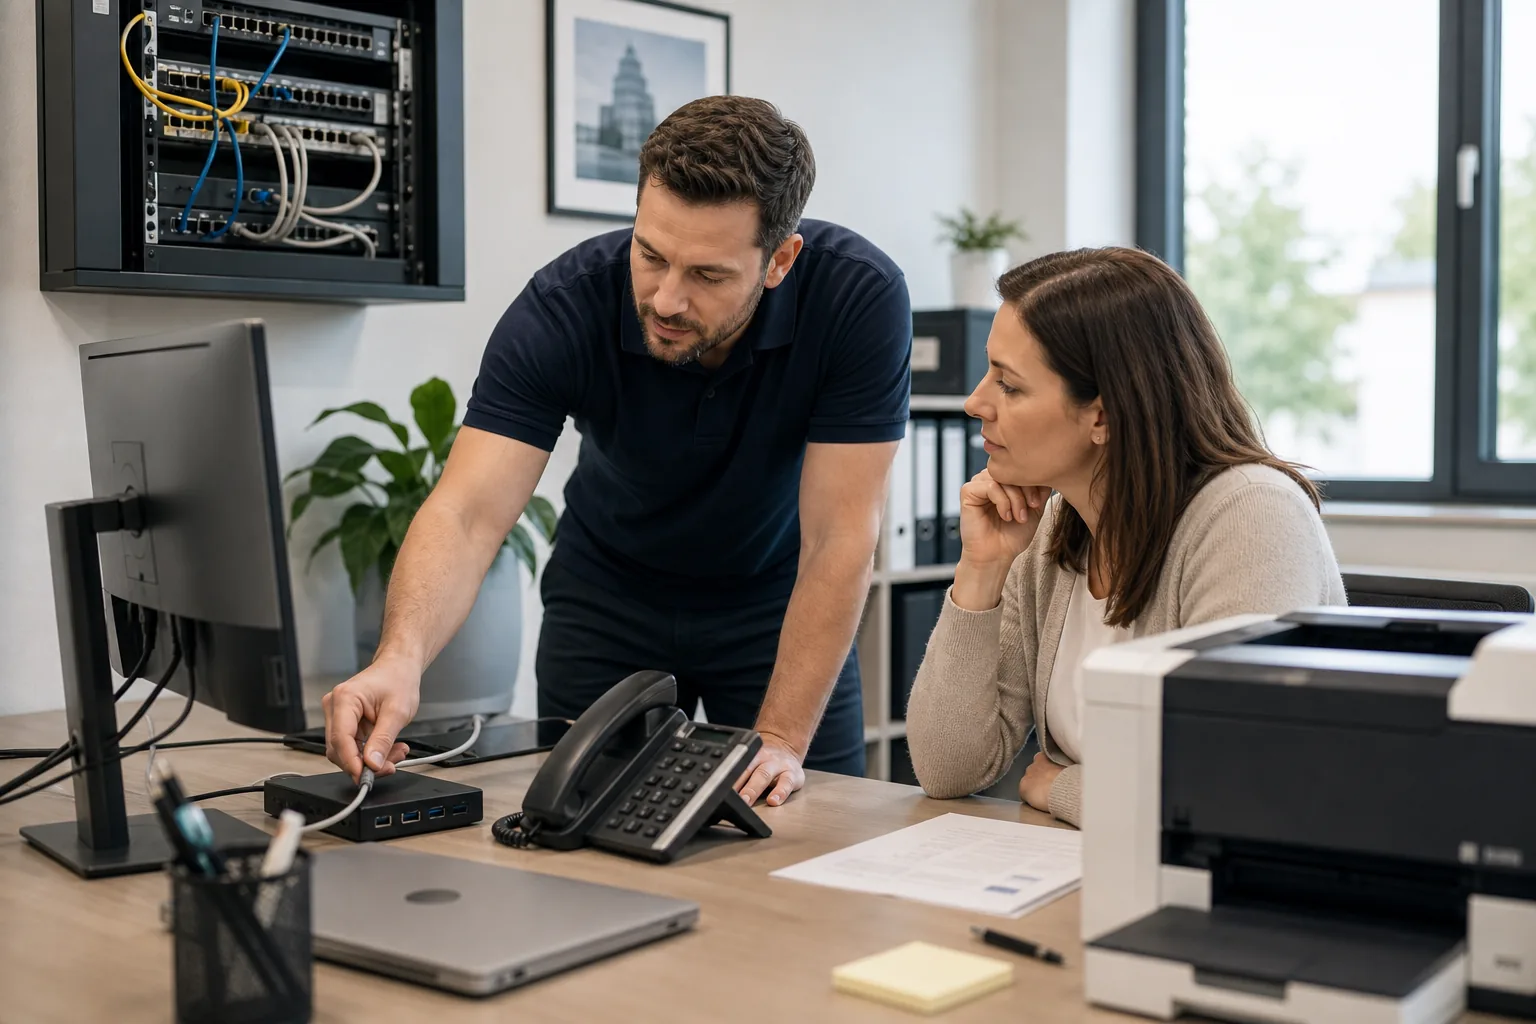
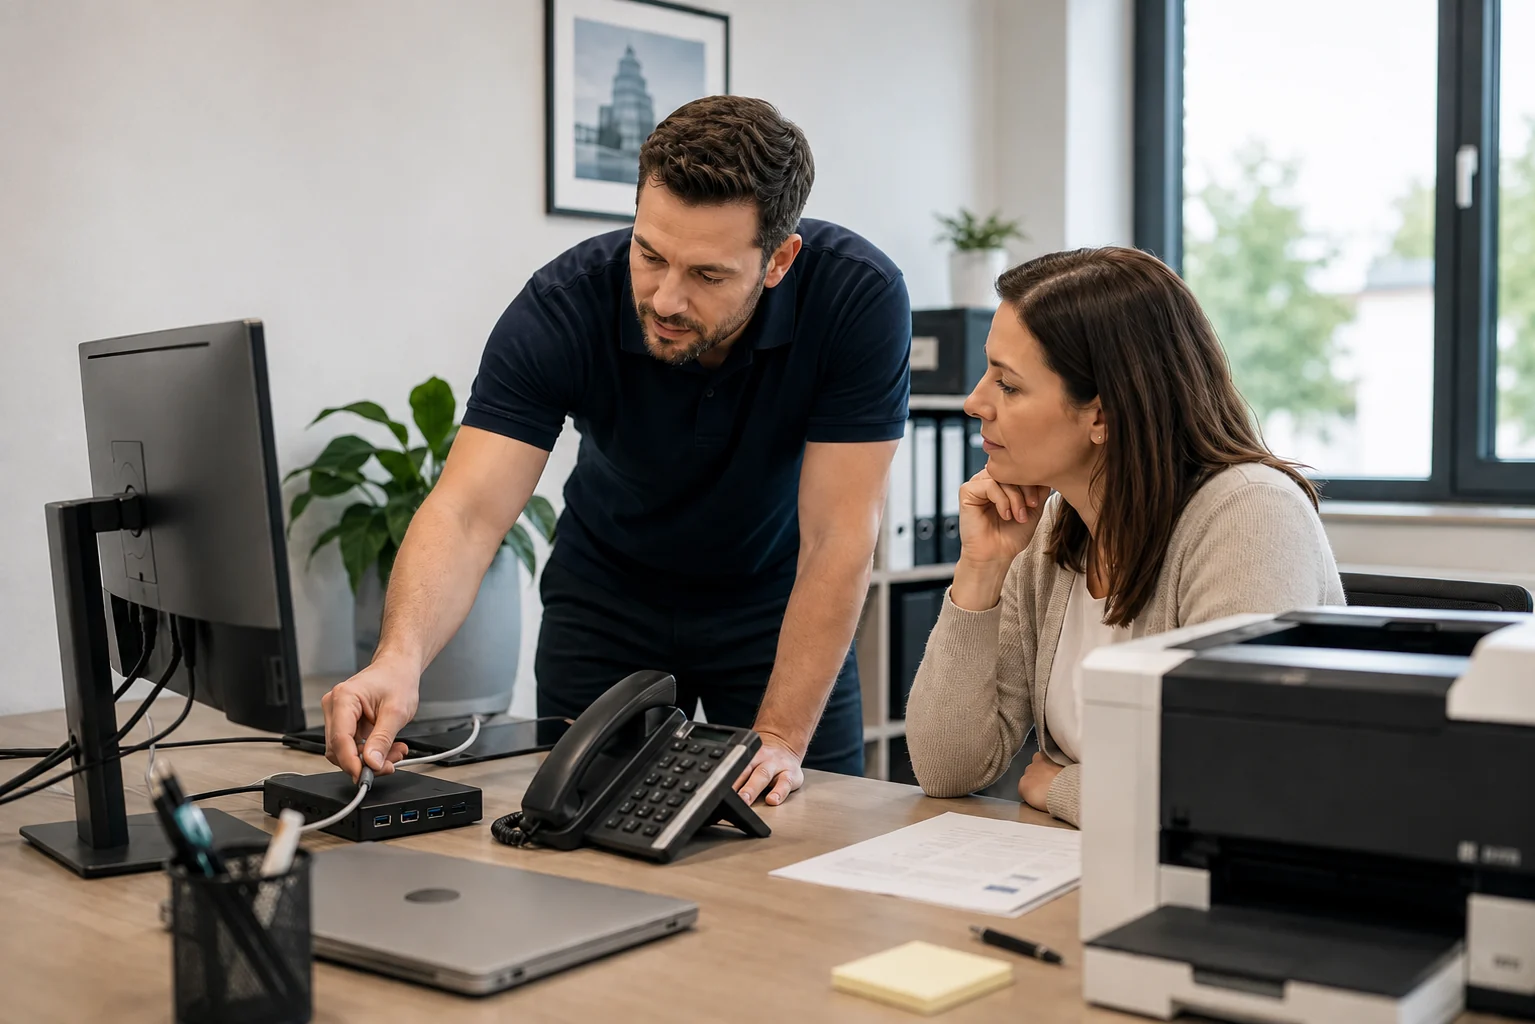
feat(Content): changed pictures, added new teaser, reword some content

diff --git a/src/components/article-section/article-card.tsx b/src/components/article-section/article-card.tsx
@@ -7,6 +7,44 @@ interface ArticleCardProps {
   article: Article;
 }
 
+const ArticleImage = component$((props: { article: Article }) => {
+  const isRightAligned = props.article.direction === 'right';
+
+  return (
+    <div class='relative overflow-hidden border border-secondary-900/10 bg-secondary-900/5 shadow-[0_24px_60px_-32px_rgba(2,2,77,0.35)]'>
+      <img {...props.article.image} class='block h-auto w-full' width='1920' height='1280' loading='lazy' />
+
+      {props.article.imageLabel && (
+        <>
+          <div class='via-secondary-950/72 pointer-events-none absolute inset-x-0 bottom-0 h-28 bg-gradient-to-t from-secondary-950/95 to-transparent' />
+          <div
+            class={{
+              'pointer-events-none absolute bottom-4 left-4 right-4 flex items-end gap-3': true,
+              'justify-end text-right': isRightAligned
+            }}
+          >
+            {isRightAligned ? (
+              <>
+                <span class='max-w-[85%] text-lg font-bold leading-6 tracking-[-0.02em] text-white md:text-xl'>
+                  {props.article.imageLabel}
+                </span>
+                <span class='h-9 w-1 bg-primary shadow-[0_0_18px_rgba(255,193,56,0.45)]' />
+              </>
+            ) : (
+              <>
+                <span class='h-9 w-1 bg-primary shadow-[0_0_18px_rgba(255,193,56,0.45)]' />
+                <span class='max-w-[85%] text-lg font-bold leading-6 tracking-[-0.02em] text-white md:text-xl'>
+                  {props.article.imageLabel}
+                </span>
+              </>
+            )}
+          </div>
+        </>
+      )}
+    </div>
+  );
+});
+
 export const ArticleCard = component$((props: ArticleCardProps) => {
   return (
     <>
@@ -16,7 +54,7 @@ export const ArticleCard = component$((props: ArticleCardProps) => {
             <div class='flex flex-col gap-y-4'>
               <HeadingArticle text={props.article.heading} />
               <div class='mt-4 w-full lg:hidden'>
-                <img {...props.article.image} width='1920' height='1280' loading='lazy' />
+                <ArticleImage article={props.article} />
               </div>
             </div>
 
@@ -39,13 +77,13 @@ export const ArticleCard = component$((props: ArticleCardProps) => {
           </div>
 
           <div class='hidden w-full lg:block'>
-            <img {...props.article.image} width='1920' height='1280' loading='lazy' />
+            <ArticleImage article={props.article} />
           </div>
         </div>
       ) : (
         <div class='flex flex-col gap-x-12 lg:flex-row lg:px-10'>
           <div class='hidden w-full lg:block'>
-            <img {...props.article.image} width='1920' height='1280' loading='lazy' />
+            <ArticleImage article={props.article} />
           </div>
 
           <div class='flex w-full flex-col gap-y-5'>
@@ -55,7 +93,7 @@ export const ArticleCard = component$((props: ArticleCardProps) => {
                 {props.article.heading}
               </div>
               <div class='mt-4 w-full lg:hidden'>
-                <img {...props.article.image} width='1920' height='1280' loading='lazy' />
+                <ArticleImage article={props.article} />
               </div>
             </div>
 

diff --git a/src/components/article-page/article-page.tsx b/src/components/article-page/article-page.tsx
@@ -10,14 +10,25 @@ interface ArticlePageProps {
 export const ArticlePage = component$(({ page }: ArticlePageProps) => {
   return (
     <Section>
-      <div class='mx-auto mb-10 max-w-4xl text-center md:mb-12'>
-        <h2 class='text-2xl font-bold leading-8 text-secondary-900 md:text-3xl md:leading-10'>{page.contentHeading}</h2>
-        {page.contentText && (
-          <p class='mt-6 text-base font-normal leading-7 text-black opacity-80 md:text-lg md:leading-8'>
-            {page.contentText}
-          </p>
-        )}
-      </div>
+      {(page.contentHeading || page.contentText) && (
+        <div class='mx-auto mb-10 max-w-4xl text-center md:mb-12'>
+          {page.contentHeading && (
+            <h2 class='text-2xl font-bold leading-8 text-secondary-900 md:text-3xl md:leading-10'>
+              {page.contentHeading}
+            </h2>
+          )}
+          {page.contentText && (
+            <p
+              class={{
+                'mt-6 text-base font-normal leading-7 text-black opacity-80 md:text-lg md:leading-8': true,
+                'mt-0': !page.contentHeading
+              }}
+            >
+              {page.contentText}
+            </p>
+          )}
+        </div>
+      )}
 
       <hr class='container mx-auto mb-10 lg:mb-20' />
 

diff --git a/src/routes/leistungen/content.ts b/src/routes/leistungen/content.ts
@@ -7,16 +7,16 @@ export const leistungenOverview: PageContent = {
     'IT-Service, Managed Services, Microsoft 365, Cyber-Sicherheit, Softwareentwicklung und Digitalstrategie für kleine und mittelständische Unternehmen.',
   headerHeading: 'Leistungen',
   headerSubheading: 'IT, Sicherheit, Software und Strategie',
+  headerTeaser:
+    'IT-Probleme entstehen selten isoliert. Deshalb verbinden wir IT-Service, Managed Services, Cyber-Sicherheit, Softwareentwicklung und Beratung in einem abgestimmten Leistungsangebot für kleine und mittelständische Unternehmen.',
   backgroundImage: createBackgroundImage('IT-Leistungen'),
-  contentHeading: 'IT-Leistungen für Betrieb, Sicherheit, Software und Strategie',
-  contentText:
-    'IT-Probleme entstehen selten isoliert. Ein Microsoft-365-Thema berührt Sicherheit, ein Softwareprojekt den späteren Betrieb, eine Digitalstrategie die vorhandene Infrastruktur. Deshalb verbinden wir IT-Service, Managed Services, Cyber-Sicherheit, Softwareentwicklung und Beratung in einem abgestimmten Leistungsangebot für kleine und mittelständische Unternehmen.',
   articles: [
     {
       direction: 'right',
       heading: 'Schnell. Persönlich. Vor Ort.',
-      text: 'Wenn Hardware, Arbeitsplätze, Netzwerke, Drucker oder Server physisch betreut werden müssen, zählt Nähe. Für Unternehmen im Ortenaukreis übernehmen wir Vor-Ort-Service rund um Achern, Sasbach, Renchen, Kappelrodeck, Appenweier, Bühl und die umliegende Region.',
+      text: 'Wenn Hardware, Arbeitsplätze, Netzwerke, Drucker oder Server physisch betreut werden müssen, zählt Nähe. Für Unternehmen im Ortenaukreis übernehmen wir Vor-Ort-Service rund um Achern, Sasbach, Renchen, Kappelrodeck, Appenweier, Offenburg und die umliegende Region.',
       image: createImage('IT-Service im Ortenaukreis'),
+      imageLabel: 'IT-Service Ortenaukreis',
       callToAction: {
         text: 'Mehr erfahren',
         href: '/leistungen/it-service-ortenaukreis/',
@@ -28,6 +28,7 @@ export const leistungenOverview: PageContent = {
       heading: 'Probleme erkennen, bevor sie zu Ausfällen werden.',
       text: 'Viele IT-Probleme kündigen sich im Verborgenen an: fehlende Updates, auslaufende Speicherkapazitäten, fehlerhafte Backups oder unbemerkte Systemwarnungen. Mit Managed Services überwachen, warten und betreuen wir Ihre IT proaktiv, damit Risiken früher sichtbar und Ausfälle besser vermeidbar werden.',
       image: createImage('Managed Services'),
+      imageLabel: 'Managed Services',
       callToAction: {
         text: 'Mehr erfahren',
         href: '/leistungen/managed-services/',
@@ -39,6 +40,7 @@ export const leistungenOverview: PageContent = {
       heading: 'Microsoft 365 richtig betreiben.',
       text: 'Microsoft 365 und Azure sind für viele kleine und mittelständische Unternehmen das Fundament moderner Zusammenarbeit. Wir unterstützen bei Migration, sicheren Grundeinstellungen, Benutzerverwaltung, Teams, SharePoint, Exchange, Backup, Lizenzmanagement und Azure-Betrieb.',
       image: createImage('Microsoft 365 und Azure'),
+      imageLabel: 'Microsoft 365 & Azure',
       callToAction: {
         text: 'Mehr erfahren',
         href: '/leistungen/microsoft-365-azure/',
@@ -50,6 +52,7 @@ export const leistungenOverview: PageContent = {
       heading: 'Cyber-Sicherheit verständlich und wirksam machen.',
       text: 'Angriffe beginnen häufig mit E-Mails, schwachen Passwörtern, Fehlkonfigurationen oder unsicheren Entscheidungen im Arbeitsalltag. Wir verbinden technische Schutzmaßnahmen mit Awareness, Phishing-Simulationen, Passwort-Management und verständlichen Sicherheitschecks.',
       image: createImage('Cyber-Sicherheit'),
+      imageLabel: 'Cyber-Sicherheit',
       callToAction: {
         text: 'Mehr erfahren',
         href: '/leistungen/cyber-sicherheit/',
@@ -61,6 +64,7 @@ export const leistungenOverview: PageContent = {
       heading: 'Software, die einfach passt.',
       text: 'Wenn Standardsoftware nicht mehr zu Ihren Abläufen passt, entwickeln wir individuelle Webanwendungen, Schnittstellen, Portale und Backend-Systeme, die Prozesse vereinfachen und langfristig wartbar bleiben.',
       image: createImage('Web- und Softwareentwicklung'),
+      imageLabel: 'Web- & Softwareentwicklung',
       callToAction: {
         text: 'Mehr erfahren',
         href: '/leistungen/web-softwareentwicklung/',
@@ -72,6 +76,7 @@ export const leistungenOverview: PageContent = {
       heading: 'KI nutzen. Aber sinnvoll.',
       text: 'Künstliche Intelligenz und Digitalisierung helfen nur dann, wenn sie echte Aufgaben im Unternehmen lösen. Wir identifizieren sinnvolle Einsatzbereiche - zum Beispiel bei Dokumenten, Recherche, Angeboten, internen Wissensfragen oder wiederkehrenden Aufgaben - und leiten daraus konkrete nächste Schritte mit realistischem Umsetzungsrahmen ab.',
       image: createImage('Digital- und KI-Strategie'),
+      imageLabel: 'Digital- & KI-Strategie',
       callToAction: {
         text: 'Mehr erfahren',
         href: '/leistungen/digital-ki-strategie/',

diff --git a/src/_shell/menu/menu.config.tsx b/src/_shell/menu/menu.config.tsx
@@ -52,7 +52,7 @@ export const menuConfig: MenuConfig = {
           items: [
             {
               text: 'IT-Service Ortenaukreis',
-              description: 'Schnell, persönlich, vor Ort',
+              description: 'Schnell. Persönlich. Vor Ort.',
               path: '/leistungen/it-service-ortenaukreis',
               icon: <OnSiteServiceIcon />
             },
@@ -157,11 +157,11 @@ export const menuConfig: MenuConfig = {
           'Wir betrachten IT, Sicherheit und Software immer im Kontext Ihrer Abläufe, Risiken und Prioritäten.',
         image: (
           <img
-            src='/img/about/team-reviewing-a-solution.webp'
-            alt='Team prüft eine Lösung gemeinsam am Arbeitsplatz'
+            src='/img/article-pages/project-responsibility-review.webp'
+            alt='Berater und Kundenteam besprechen Anforderungen, Prioritäten und Verantwortlichkeiten an einem Whiteboard.'
             width='193'
             height='233'
-            class='h-[14.5rem] w-48 object-cover'
+            class='h-[14.5rem] w-48 object-cover object-[58%_center]'
           />
         ),
         link: '/contact',

diff --git a/src/routes/leistungen/it-service-ortenaukreis/content.ts b/src/routes/leistungen/it-service-ortenaukreis/content.ts
@@ -4,16 +4,15 @@ import { createBackgroundImage, createImage } from '~/components/article-page';
 export const itServiceOrtenaukreis: PageContent = {
   title: 'co-IT - IT-Service Ortenaukreis',
   metaDescription:
-    'Regionaler IT-Service im Ortenaukreis für Unternehmen rund um Achern, Sasbach, Renchen, Kappelrodeck, Appenweier und Bühl.',
+    'Regionaler IT-Service im Ortenaukreis für Unternehmen rund um Achern, Sasbach, Renchen, Kappelrodeck, Appenweier und Offenburg.',
   headerHeading: 'IT-Service Ortenaukreis',
-  headerSubheading: 'Schnell, persönlich, vor Ort',
+  headerSubheading: 'Schnell. Persönlich. Vor Ort.',
   backgroundImage: createBackgroundImage('IT-Service im Ortenaukreis'),
-  contentHeading: 'IT-Service im Ortenaukreis für Unternehmen',
   articles: [
     {
       direction: 'right',
       heading: 'Schnell. Persönlich. Vor Ort.',
-      text: 'Wenn IT-Systeme streiken, zählt jede Minute. Unser lokales Team ist im Raum Achern ansässig und in der gesamten Ortenau für Sie im Einsatz - von Sasbach über Renchen und Kappelrodeck bis Appenweier, Bühl und umliegende Orte. Kein endloses Ferndiagnose-Ping-Pong, sondern ein Techniker, der Ihre Infrastruktur kennt und bei Bedarf direkt vor Ort unterstützt.',
+      text: 'Wenn IT-Systeme streiken, zählt jede Minute. Unser Team sitzt in Achern und unterstützt Unternehmen im gesamten Ortenaukreis – unter anderem in Sasbach, Renchen, Kappelrodeck, Oberkirch, Appenweier und Offenburg. Kein endloses Ferndiagnose-Ping-Pong, sondern ein Techniker, der Ihre Infrastruktur kennt und bei Bedarf direkt vor Ort unterstützt.',
       image: createImage('regionalen IT-Service')
     },
     {

diff --git a/src/routes/leistungen/microsoft-365-azure/content.ts b/src/routes/leistungen/microsoft-365-azure/content.ts
@@ -6,13 +6,13 @@ export const microsoft365Azure: PageContent = {
   metaDescription:
     'Microsoft 365 und Azure für Unternehmen: Migration, sichere Konfiguration, Teams, SharePoint, Exchange, Backup, Lizenzen und Betrieb.',
   headerHeading: 'Microsoft 365 & Azure',
-  headerSubheading: 'Von Teams bis Azure',
+  headerSubheading: 'Von Azure bis Teams',
   backgroundImage: createBackgroundImage('Microsoft 365 und Azure'),
   contentHeading: 'Microsoft 365 und Azure für Unternehmen',
   articles: [
     {
       direction: 'right',
-      heading: 'Microsoft im Griff. Von Teams bis Azure.',
+      heading: 'Microsoft im Griff. Von Azure bis Teams.',
       text: 'Microsoft 365 und Azure sind heute das Rückgrat moderner KMU-IT - aber nur, wenn sie richtig konfiguriert, sicher betrieben und kontinuierlich gewartet werden. Wir begleiten Sie von der Migration bis zum laufenden Betrieb.',
       image: createImage('Microsoft 365 und Azure')
     },

diff --git a/src/components/article-page/create-article-page-head.ts b/src/components/article-page/create-article-page-head.ts
@@ -15,7 +15,8 @@ export const createArticlePageHead = (page: PageContent): DocumentHead => ({
       configuration: {
         backgroundImage: page.backgroundImage,
         heading: page.headerHeading,
-        headingAccent: page.headerSubheading
+        headingAccent: page.headerSubheading,
+        teaser: page.headerTeaser
       }
     }
   }

diff --git a/src/components/article-page/model/page-content.ts b/src/components/article-page/model/page-content.ts
@@ -5,11 +5,12 @@ export interface PageContent {
   metaDescription: string;
   headerHeading: string;
   headerSubheading: string;
+  headerTeaser?: string;
   backgroundImage: {
     source: string;
     alt: string;
   };
-  contentHeading: string;
+  contentHeading?: string;
   contentText?: string;
   articles: Article[];
 }

diff --git a/src/components/article-page/article-page-images.ts b/src/components/article-page/article-page-images.ts
@@ -285,7 +285,7 @@ const articleImageAssets: Partial<Record<string, ArticlePageImageAsset>> = {
   ),
   'Vor-Ort-Leistungen': createArticleImageAsset(
     'onsite-workstation-support.webp',
-    'IT-Techniker prüft Arbeitsplatz, Peripherie und Netzwerktechnik direkt beim Kunden vor Ort.'
+    'IT-Techniker verbindet eine Dockingstation am Arbeitsplatz, während eine Kundin den Vor-Ort-Service begleitet.'
   ),
   'Vor-Ort-Service für Handwerk': createArticleImageAsset(
     'craft-workshop-network-service.webp',

diff --git a/src/components/header/header-content-page/header-content-page.tsx b/src/components/header/header-content-page/header-content-page.tsx
@@ -12,7 +12,7 @@ export const HeaderContentPage = component$((props: HeaderContentPageProps) => {
 
       {props.teaser && (
         <div class='bg-secondary-900 md:bg-opacity-0'>
-          <p class='p-8 text-lg leading-8 tracking-wider text-white md:text-xl md:font-semibold md:leading-10 md:[text-shadow:0_4px_8px_rgba(0,0,0,0.8)]'>
+          <p class='w-full max-w-[75rem] px-8 py-8 text-lg leading-8 tracking-wider text-white md:text-xl md:font-semibold md:leading-10 md:[text-shadow:0_4px_8px_rgba(0,0,0,0.8)] lg:px-10'>
             {props.teaser}
           </p>
         </div>

diff --git a/src/components/article-section/model/article.tsx b/src/components/article-section/model/article.tsx
@@ -14,5 +14,6 @@ export interface Article {
   text: string;
   enumeration?: string[];
   image: QwikIntrinsicElements['img'];
+  imageLabel?: string;
   callToAction?: ArticleCallToAction;
 }

diff --git a/.agents/memory.md b/.agents/memory.md
@@ -24,3 +24,11 @@ Persistente, belastbare Erkenntnisse fuer AI-Coding in diesem Repository.
 - 2026-07-10: Die neue inhaltliche Zielstruktur der Website ist deutschsprachig und basiert auf Bereichen wie `/leistungen/`, `/produkte-loesungen/` und `/branchen/`; aeltere Parallelstrukturen wie `/about/` oder `/solutions/` gelten als Altstruktur und sollen SEO-seitig nicht gleichrangig neben der neuen Struktur bestehen bleiben.
 - 2026-07-10: Alte Karriere-bezogene Pfade wie `/career/`, `/karriere/`, `/jobs/` und `/recruitee/` sollen auf `/ueber-uns/` weiterleiten statt als 404/410 behandelt zu werden.
 - 2026-07-13: SEO-Ausschluesse sollen Build und Indexierung trennen: alle Routen werden gebaut; `filterSitemapPlugin`, `robotsTxtPlugin` und der globale `RouterHead` nutzen dieselbe Exclude-Liste aus `PUBLIC_SEO_EXCLUDED_ROUTES` (komma- oder zeilengetrennte Pfade, z.B. `/*` fuer Staging). Keine Hostnamen oder Stage-Schalter in der SEO-Exclude-Logik.
+- 2026-07-13: Der Claim soll einheitlich als `Schnell. Persoenlich. Vor Ort.` geschrieben werden, nicht mit Kommas.
+- 2026-07-13: `ArticlePage`-Seiten duerfen ohne `contentHeading` auskommen; der Intro-Block soll nur bei tatsaechlichem Heading oder Introtext gerendert werden.
+- 2026-07-13: Auf der Leistungen-Uebersicht sollen Artikelbilder ein dezentes Overlay mit dem jeweiligen Navigationstitel tragen.
+- 2026-07-13: Content-Page-Heroes duerfen einen Teaser direkt im Header tragen; auf `Leistungen` soll der Absatz wie auf der Startseite im Hero unter gelbem Subtitel und weissem Seitentitel stehen.
+- 2026-07-13: Bild-Overlays auf der Leistungen-Uebersicht sollen je nach Artikelrichtung gespiegelt ausgerichtet sein: bei rechts liegenden Bildern rechtsbuendig, bei links liegenden linksbuendig.
+- 2026-07-13: Der Hero-Teaser auf `Leistungen` soll kurz und praegnant bleiben, nicht als langer Fliesstextblock wirken.
+- 2026-07-13: Der Hero-Teaser auf `Leistungen` soll sich in der Breite an der darunterliegenden Content-Flaeche orientieren.
+- 2026-07-13: Die Branchen-Kachel im Desktop-Menue soll ein professionelles, kontextbezogenes Beratungsbild statt eines lockeren Teamfotos nutzen.